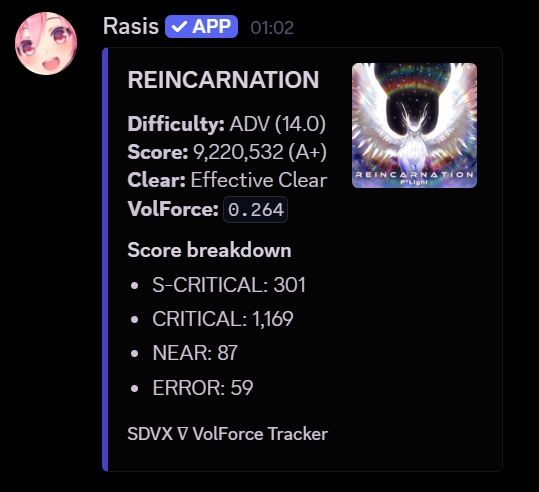
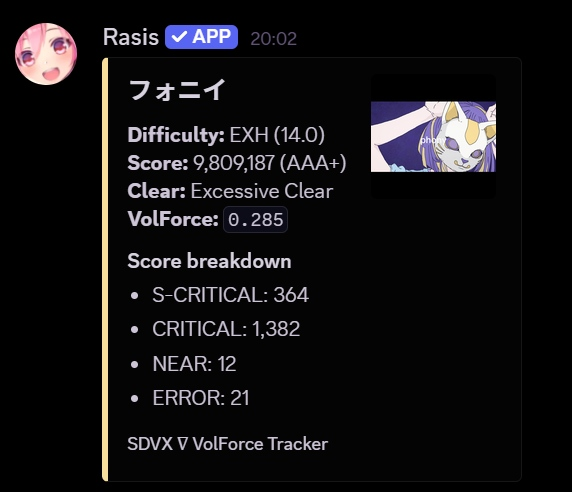
String changes, add /top-plays command, add history diff filters, Update images

Changed region(s): [[0.1781, 0.0305, 0.8905, 0.9756], [0.0, 0.0, 0.1484, 0.1829]]

diff --git a/bot.py b/bot.py
@@ -14,11 +14,15 @@ from pathlib import Path
 import aiohttp
 import discord
 from discord.ext import tasks
-from dotenv import load_dotenv
+from dotenv import dotenv_values, load_dotenv
 from PIL import Image
 
 from config import MUSIC_DB_PATH, PULLING_RATE, SCORE_LOG_PATH
-from performance import load_performance_history, render_performance_graph
+from performance import (
+    load_performance_history,
+    load_play_history,
+    render_performance_graph,
+)
 
 logger = logging.getLogger("sdvx_bot")
 
@@ -31,6 +35,10 @@ if not BOT_TOKEN or not USER_ID_RAW:
     raise ValueError("Missing BOT_TOKEN or USER_ID in .env file")
 
 USER_ID = int(USER_ID_RAW)
+USERNAME = (
+    dotenv_values(Path(__file__).resolve().parent / ".env").get("USERNAME")
+    or "the player"
+).strip() or "the player"
 
 CACHE_DIR = Path("cache")
 CACHE_DIR.mkdir(parents=True, exist_ok=True)
@@ -52,6 +60,8 @@ DIFF_SLOT_TAGS = {
     4: ("maximum",),
     5: ("ultimate",),
 }
+
+artist_db = {}
 
 
 # COLOR EXTRACTION & IMGUR UPLOAD
@@ -138,7 +148,7 @@ def find_local_jacket(mid: int, diff_idx: int) -> bytes | None:
     return None
 
 
-async def upload_cover(cover_bytes: bytes) -> dict:
+async def get_cover_dict(cover_bytes: bytes) -> dict:
     """Upload song cover to Imgur and cache the result + accent color."""
     cover_hash = hashlib.md5(cover_bytes).hexdigest()
     cache_file = CACHE_DIR / f"{cover_hash}.json"
@@ -255,6 +265,11 @@ def parse_music_db() -> tuple[dict[int, str], dict[int, dict[int, float]]]:
                     else f"ID: {mid}"
                 )
                 title_map[mid] = title
+                artist_db[mid] = (
+                    info.findtext("artist_name", "Unknown artist")
+                    if info is not None
+                    else "Unknown artist"
+                )
 
                 diff_node = music.find("difficulty")
                 if diff_node is not None:
@@ -403,7 +418,7 @@ async def watch_score_log():
 
             cover_bytes = find_local_jacket(mid, diff_idx)
             if cover_bytes:
-                cover_meta = await upload_cover(cover_bytes)
+                cover_meta = await get_cover_dict(cover_bytes)
                 cover_url = cover_meta.get("url")
                 dominant_rgb = cover_meta.get("dominant_rgb")
                 if dominant_rgb and len(dominant_rgb) == 3:
@@ -461,9 +476,93 @@ async def watch_score_log_error(error):
 
 
 # MISC COMMANDS
+
+
+def format_top_plays(plays: list[dict]) -> str:
+    lines = []
+    for rank, play in enumerate(plays[:10], 1):
+        mid, difficulty = play["music_id"], play["diff_idx"]
+        artist = discord.utils.escape_markdown(
+            str(artist_db.get(mid, "Unknown artist"))
+        )[:120]
+        title = discord.utils.escape_markdown(str(title_db.get(mid, f"Music #{mid}")))[
+            :160
+        ]
+        level = level_db.get(mid, {}).get(difficulty, 0.0)
+        lines.append(
+            f"{rank}. {artist} - {title} - {DIFF_NAMES.get(difficulty, 'UNK')} "
+            f"({level:.1f}) - `{play['play_vf']:.3f}`"
+        )
+    return "\n".join(lines)
+
+
+@bot.slash_command(
+    name="top-plays",
+    description=f"Show {USERNAME}'s top 10 non-Crash plays by VolForce. Defaults to week."[:100],
+    integration_types={
+        discord.IntegrationType.guild_install,
+        discord.IntegrationType.user_install,
+    },
+)
+async def top_plays(
+    ctx: discord.ApplicationContext,
+    period: discord.Option(
+        str, choices=["day", "week", "month", "3 months", "all time"]
+    ) = "week",  # type: ignore
+) -> None:
+    await ctx.defer()
+    days = {"day": 1, "week": 7, "month": 30, "3 months": 90, "all time": 0}[period]
+    try:
+        plays = await asyncio.to_thread(
+            load_play_history, SCORE_LOG_PATH, USER_ID, USER_ID, level_db, days
+        )
+        ranked = sorted(
+            plays, key=lambda play: (play["play_vf"], play["timestamp"]), reverse=True
+        )
+        best = []
+        seen_songs = set()
+        for play in ranked:
+            if play["music_id"] in seen_songs:
+                continue
+            seen_songs.add(play["music_id"])
+            best.append(play)
+            if len(best) == 10:
+                break
+        if not best:
+            await ctx.respond(
+                f"No non-Crash plays recorded for {USERNAME} in that period."
+            )
+            return
+        embed = discord.Embed(
+            title=f"Top 10 Plays, {period}",
+            description=format_top_plays(best),
+            color=discord.Color(0xCBA6F7),
+        )
+        embed.set_footer(text="SDVX ∇ VolForce Tracker")
+        cover_bytes = await asyncio.to_thread(
+            find_local_jacket, best[0]["music_id"], best[0]["diff_idx"]
+        )
+        if cover_bytes:
+            dominant_rgb = await asyncio.to_thread(get_accent_color, cover_bytes)
+            embed.color = discord.Color.from_rgb(*dominant_rgb)
+            embed.set_thumbnail(url="attachment://best_play.png")
+            await ctx.respond(
+                embed=embed,
+                file=discord.File(BytesIO(cover_bytes), filename="best_play.png"),
+                allowed_mentions=discord.AllowedMentions.none(),
+            )
+        else:
+            await ctx.respond(
+                embed=embed, allowed_mentions=discord.AllowedMentions.none()
+            )
+    except (OSError, ValueError) as error:
+        logger.error("Top plays failed: %s", error)
+        await ctx.respond("Could not read top-play history.")
+
+
 @bot.slash_command(
     name="performance",
-    description="Graph bot owner's tracked current-play VolForce over time.",
+    description=f"Graph {USERNAME}'s tracked current-play VolForce over time."[:100],
     integration_types={
         discord.IntegrationType.guild_install,
         discord.IntegrationType.user_install,
@@ -474,21 +573,29 @@ async def performance(
     period: discord.Option(
         str, choices=["day", "week", "month", "3 months", "all time"]
     ) = "all time",  # type: ignore
+    exclude_under: discord.Option(
+        str, description="Exclude this difficulty and all lower difficulties.",
+        choices=list(DIFF_NAMES.values()),
+    ) = None,  # type: ignore
 ) -> None:
     await ctx.defer()
     days = {"day": 1, "week": 7, "month": 30, "3 months": 90, "all time": 0}[period]
     try:
         plays = await asyncio.to_thread(
-            load_performance_history, SCORE_LOG_PATH, USER_ID, USER_ID, level_db, days
+            load_performance_history, SCORE_LOG_PATH, USER_ID, USER_ID, level_db, days,
+            exclude_under=next((index for index, name in DIFF_NAMES.items() if name == exclude_under), None),
         )
         if not plays:
             await ctx.respond(
-                "No non-Crash plays recorded for the bot owner in that period.",
+                f"No non-Crash plays recorded for {USERNAME} matching the selected period and difficulty filter.",
             )
             return
         image = await asyncio.to_thread(
-            render_performance_graph, plays, f"VolForce History, {period}",
+            render_performance_graph,
+            plays,
+            f"Performance History, {period}",
             show_hours=period == "day",
+            exclude_difficulty=exclude_under,
         )
         await ctx.respond(file=discord.File(image, filename="performance.png"))
     except (OSError, ValueError) as error:

diff --git a/performance.py b/performance.py
@@ -8,14 +8,13 @@ from io import BytesIO
 from PIL import Image, ImageDraw, ImageFont
 
 
-def load_performance_history(
+def load_play_history(
     log_path: str,
     user_id: int,
     default_user_id: int,
     levels: dict,
     days: int = 0,
-) -> list[tuple[datetime, float]]:
-    """Unattributed local plays belong only to the configured tracker owner."""
+) -> list[dict]:
     cutoff = datetime.now(timezone.utc) - timedelta(days=days) if days else None
     plays = []
     clears = {1: 50, 2: 100, 3: 102, 4: 106, 5: 110, 6: 104}
@@ -68,16 +67,39 @@ def load_performance_history(
                         // 1000000000000
                     ) / 1000
                 if math.isfinite(vf) and vf >= 0:
-                    plays.append((timestamp, vf))
+                    plays.append(
+                        dict(
+                            record,
+                            music_id=int(record["music_id"]),
+                            diff_idx=int(record["diff_idx"]),
+                            timestamp=timestamp,
+                            play_vf=vf,
+                        )
+                    )
             except (ValueError, TypeError, KeyError, AttributeError, OverflowError):
                 continue
-    return sorted(plays, key=lambda play: play[0])
+    return sorted(plays, key=lambda play: play["timestamp"])
+
+
+def load_performance_history(
+    log_path: str,
+    user_id: int,
+    default_user_id: int,
+    levels: dict,
+    days: int = 0,
+    exclude_under: int | None = None,
+) -> list[tuple[datetime, float]]:
+    return [
+        (play["timestamp"], play["play_vf"])
+        for play in load_play_history(log_path, user_id, default_user_id, levels, days)
+        if exclude_under is None or play["diff_idx"] > exclude_under
+    ]
 
 
 def render_performance_graph(
-    plays: list[tuple[datetime, float]], title: str, show_hours: bool = False
+    plays: list[tuple[datetime, float]], title: str, show_hours: bool = False,
+    exclude_difficulty: str | None = None,
 ) -> BytesIO:
-    """Purple scatter, rolling averages, and running best on a dark canvas."""
     if not plays:
         raise ValueError("No plays to graph")
     image = Image.new("RGB", (1500, 760), "#1e1e2e")
@@ -94,7 +116,11 @@ def render_performance_graph(
     small, regular, heading = font(17), font(21), font(29)
     muted, purple, dim = "#888ba6", "#cba6f7", "#6e5b88"
     draw.text((100, 35), title[:70], font=heading, fill=purple)
-    draw.text((100, 82), "VolForce of a play over time", font=small, fill=muted)
+    subtitle = "VolForce of a play over time"
+    if exclude_difficulty:
+        suffix = "" if exclude_difficulty == "NOV" else " and under"
+        subtitle += f", {exclude_difficulty}{suffix} excluded"
+    draw.text((100, 82), subtitle, font=small, fill=muted)
     left, top, right, bottom = 105, 155, 1410, 600
     draw.rectangle((left, top, right, bottom), fill="#1b1b29")
     start, end = plays[0][0].timestamp(), plays[-1][0].timestamp()

diff --git a/README.md b/README.md
@@ -1,12 +1,21 @@
 # SDVX ∇ VolForce Tracker
 
-Very random script to send results after a play in DMs for SOUND VOLTEX ∇, running on the RyuNET private network.
+Very random script to send results after a play in Discord DMs for SOUND VOLTEX ∇, running on the RyuNET private network.
 
 The main point of it is to be able to fast check VF after each play.
 
 The script observes the game's e-amusement result requests through a local proxy and forwards them unchanged to Ryu's server.
 
-![Rasis sending play results](img/rasis.jpg)
+<p>
+	<img src="img/rasis.jpg" alt="Rasis sending play results" width="400">
+</p>
+<p>
+	<img src="img/top-plays.jpg" alt="Top Plays embed" width="700">
+</p>
+<p>
+	<img src="img/performance.jpg" alt="VolForce Performance History embed" width="700">
+</p>
+
 
 ## Setup
 
@@ -39,11 +48,13 @@ npm install
 ```bash
 pip install -r requirements.txt
 ```
+
 - Create and fill a .env from the template (Imgur is optional)
-- Run `run_tracker.bat`, *then* start the game. Create a shortcut of it for easy access !
+- Run `run_tracker.bat`, _then_ start the game. Create a shortcut of it for easy access !
 
 > [!NOTE]  
 > If you use a virtual environment, replace the Python launcher line. Replace `venv` with whatever the name of your venv is.
+>
 > ```bat
 > start "SDVX Discord Bot" /D "%REPO_ROOT%" "%ComSpec%" /k "%REPO_ROOT%venv\Scripts\python.exe" "%REPO_ROOT%bot.py"
 > ```
